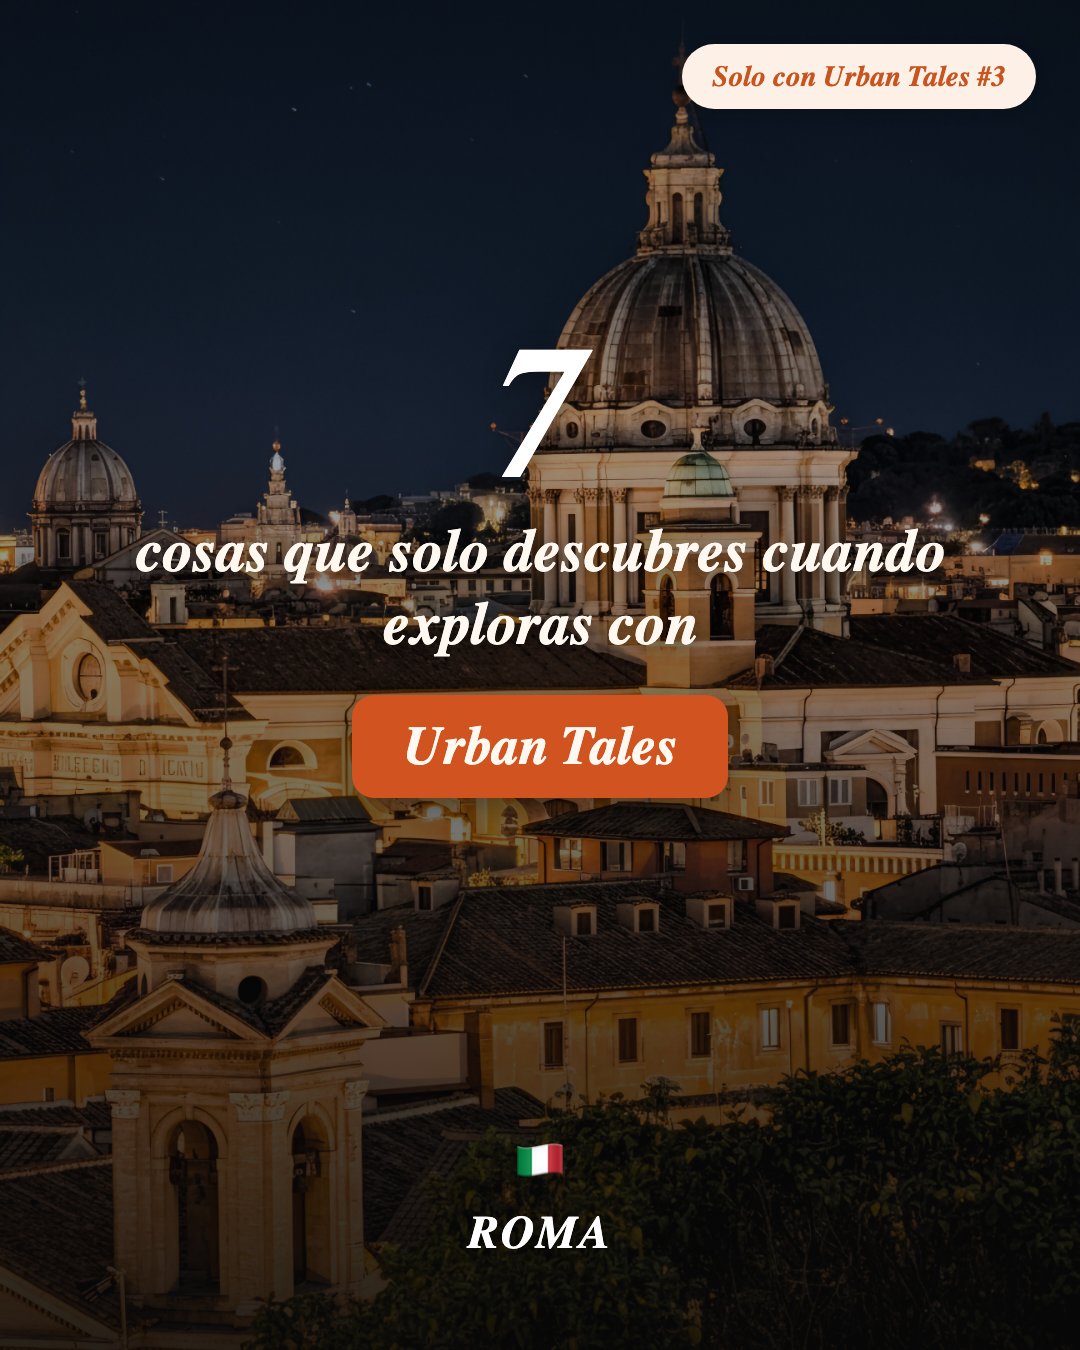
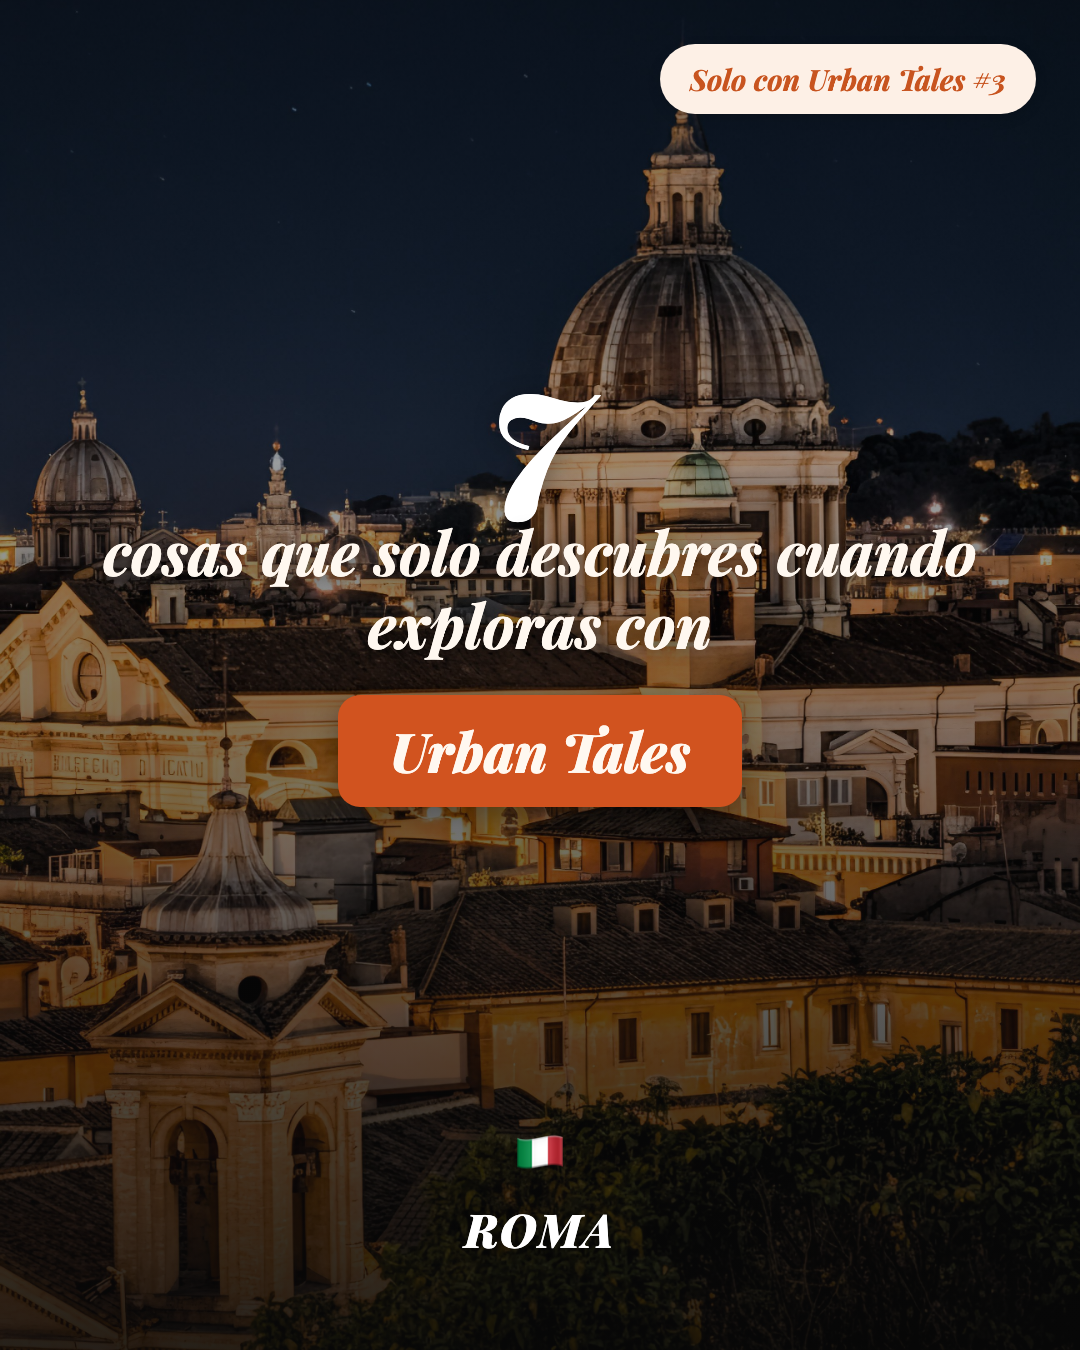
Carousel: Istanbul, Florence, Paris ES sets; wait for fonts before screenshot
Headless Chrome sometimes captured before Playfair Display 800 loaded,
giving lighter/upright text on random slides. --virtual-time-budget lets
fonts finish; earlier ES sets re-rendered for consistency.

diff --git a/carousel/render.py b/carousel/render.py
@@ -69,7 +69,7 @@ def render_html_to_png(html, out_png, workdir):
     html_path = os.path.join(workdir, "_tmp_slide.html")
     open(html_path, "w").write(f"<!DOCTYPE html><html><head><meta charset='utf-8'>{SHARED_HEAD}</head><body>{html}</body></html>")
     subprocess.run([
-        CHROME, "--headless", "--disable-gpu",
+        CHROME, "--headless", "--disable-gpu", "--virtual-time-budget=5000",
         f"--screenshot={out_png}", "--window-size=1080,1350", "--hide-scrollbars",
         f"file://{html_path}",
     ], stdout=subprocess.DEVNULL, stderr=subprocess.DEVNULL)
